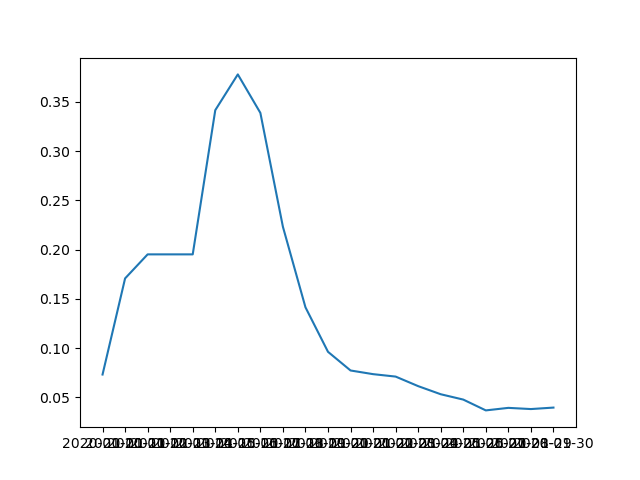
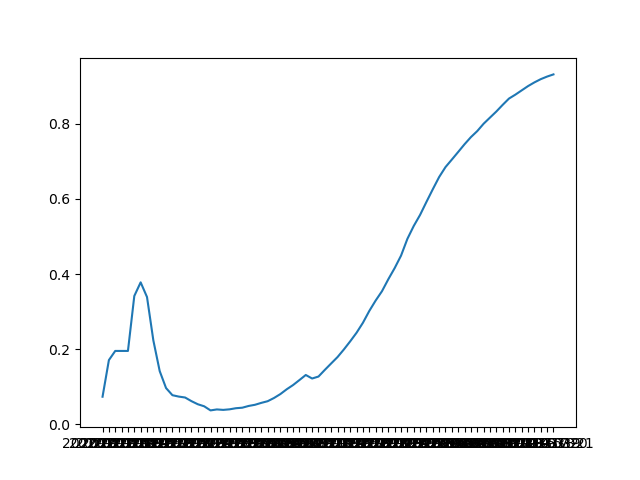
更新疫情数据至2020年3月21日24时，并修改了一个bug。

diff --git a/SIR.py b/SIR.py
@@ -68,8 +68,8 @@ if __name__ == "__main__":
 	pl.xlabel("Time")
 	pl.ylabel("Infectious Susceptibles")
 	pl.savefig("realdata.png")
-	# 计算β值，用确诊病例除以密切接触者人数
-	#gammaguess = (data["治愈"]+data["死亡"])/data["感染者"]
+	 #计算β值，用确诊病例除以密切接触者人数
+#	gammaguess = (data["治愈"]+data["死亡"])/data["感染者"]
 #	print(gammaguess)
 #	gamma = gammaguess[-7:-1].mean()
 #	print(gamma)
@@ -78,20 +78,20 @@ if __name__ == "__main__":
 #	fig = pl.figure()
 #	pl.plot(gammaguess)
 #	pl.savefig("gama.png")
-	
-	# γ值设定为0.04，即一般病程25天
-	# 用最小二乘法估计β值和初始易感人数
+#	
+#	 #γ值设定为0.04，即一般病程25天
+#	 #用最小二乘法估计β值和初始易感人数
 #	gamma = 0.04
 #	S0 = [i for i in range(20000, 40000, 1000)]
 #	beta = [f for f in np.arange(1e-7, 1e-4, 1e-7)]
 #	
 #	# 定义偏差函数
 #	def error(res):
-#		err = (data["感染者"] - res)**2
+#		err = (data["感染者"].iloc[:21] - res)**2
 #		errsum = sum(err)
 #		return errsum
 #		
-	# 穷举法，找出与实际数据差的平方和最小的S0和beta值
+#	 #穷举法，找出与实际数据差的平方和最小的S0和beta值
 #	# 结果 S0 = 39000, β = 8e-6
 #	minSum = 1e10
 #	minS0 = 0.0
